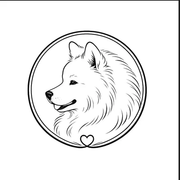
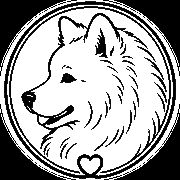
余白を抑えた円形ファビコンに更新する。
タブや検索でも視認できるようコントラストを整え、複数サイズと再生成スクリプトを追加する。

diff --git a/index.html b/index.html
@@ -50,9 +50,11 @@
     <meta name="twitter:image" content="https://smileys.one/hero.webp" />
 
     <!-- Favicon -->
-    <link rel="icon" type="image/png" sizes="32x32" href="/favicon.png" />
-    <link rel="icon" type="image/png" sizes="192x192" href="/favicon-192.png" />
-    <link rel="apple-touch-icon" sizes="180x180" href="/apple-touch-icon.png" />
+    <link rel="icon" type="image/png" sizes="192x192" href="/favicon-192.png?v=20260715d" />
+    <link rel="icon" type="image/png" sizes="96x96" href="/favicon-96.png?v=20260715d" />
+    <link rel="icon" type="image/png" sizes="48x48" href="/favicon-48.png?v=20260715d" />
+    <link rel="icon" type="image/png" sizes="32x32" href="/favicon.png?v=20260715d" />
+    <link rel="apple-touch-icon" sizes="180x180" href="/apple-touch-icon.png?v=20260715d" />
 
     <!-- Canonical / meta description / OGP are set per route via react-helmet-async (SeoHead) -->
   </head>
